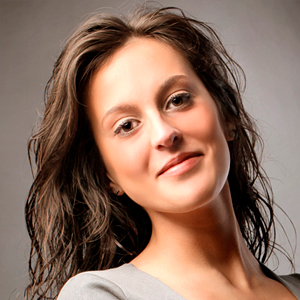
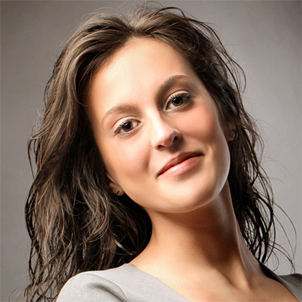
fix: fix the images for portfolio and about us parts

diff --git a/singolo2.css b/singolo2.css
@@ -108,18 +108,25 @@ section.portfolio {
     justify-content: flex-start;
     align-items: stretch;
     flex-wrap: wrap;
+    width: 962px;
+    height: 621px;
     margin-top: 19px;
+    overflow: hidden;
 }
 
 .portfolio .portfolio__images .portfolio__image {
+    display: flex;
+    justify-content: center;
+    align-items: center;
     width: 220px;
     height: 187px;
     margin-bottom: 20px;
-    margin-right: 20px
+    margin-right: 20px;
+    overflow: hidden;
 }
 
 .portfolio .portfolio__images .portfolio__image img {
-    filter: saturate(90%);
+    filter: contrast(90%);
 }
 
 section.about {
@@ -153,13 +160,15 @@ section.about {
     display: block;
     width: 300px;
     height: 300px;
-    filter: saturate(85%);
+    
 }
 
 .about .about__persons .about__person .header {
     margin-top: 18px;
     font-size: 18px;
     letter-spacing: 0.1px;
+    white-space: nowrap;
+    overflow: hidden;
 }
 
 .about .about__persons .about__person .description {
@@ -207,6 +216,7 @@ section.about {
 
 .about .about__persons .about__person .media .media-site .twitter {
     width: 14px;
+    margin-top: 1px;
     background: url('assets/icons/about_us/twitter.svg') no-repeat;
 }
 
